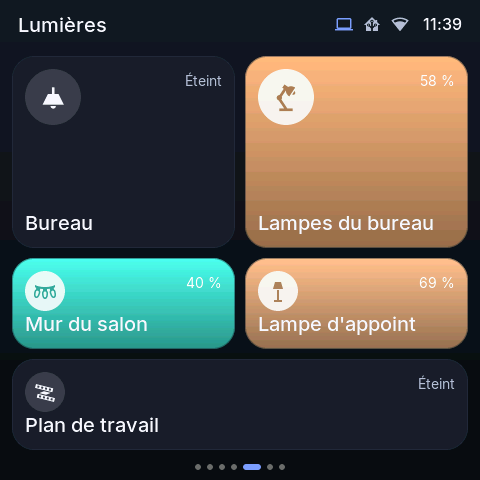
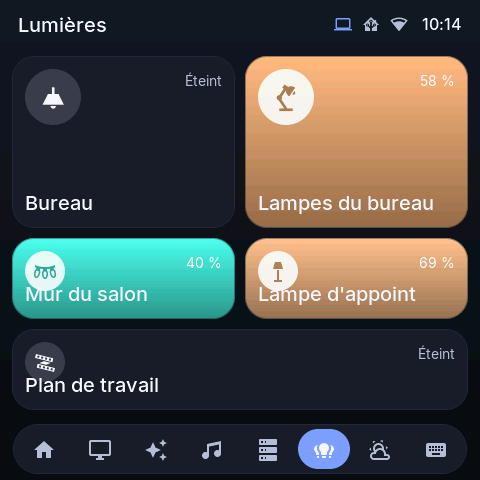
docs: page dock, wake-up trace and new screenshots

diff --git a/CLAUDE.md b/CLAUDE.md
@@ -71,6 +71,7 @@ Anything that is not hardware or transport goes in `core/`: HA protocol logic, w
 
 - `Layout::parse` validates the JSON (4×4 grid, no overlap, required props) and returns French error messages.
 - `App` builds one `lv_tileview` tile per page, with a grid layout, and asks `find_widget_factory(type)` (`core/src/widgets/registry.cpp`) for each widget.
+- Pages are reached by swiping or through the page dock (`App::add_dock_button`): a floating pill in the `FOOTER_H` band, one button per page with the page's `icon` (else the first letter of its title). It stays a child of the screen, so popups (top layer) cover it.
 - A type without a factory (layout from a newer editor) renders a "Non pris en charge" placeholder.
 - Rebuild order matters: `close_sheet()`, then `bus.clear_subscriptions()`, then `widgets_.clear()`, then delete the LVGL objects.
 
@@ -138,6 +139,7 @@ Anything that is not hardware or transport goes in `core/`: HA protocol logic, w
 - **`lv_tileview_get_tile_active()` is NULL** until a tile is set explicitly. `build_pages()` sets tile 0.
 - **Labels** that must stay on one line use `theme::single_line()`, because `LV_LABEL_LONG_DOT` alone wraps when the height is `LV_SIZE_CONTENT`.
 - **C++ and IDF macros.** Several IDF/component config macros use designated initializers in an order that fails in C++ (e.g. `ESP_LCD_TOUCH_IO_I2C_GT911_CONFIG`). Fill the structs field by field.
+- **Reboot when waking up** (wall charger, after a long sleep). `/api/status` reported `power_on`, a real power loss, not a crash. The wake-up now fades the backlight in over 800 ms after the redraw, and a trace kept in NVS (`dm_display/state`, written only on sleep/wake transitions) shows in `last_display_state`. Cause not confirmed yet.
 - **Backlight (GPIO38).** It floats after reset and lights the uninitialized panel (white flash). `bootloader_components/backlight_off` drives it low in the bootloader, and `display_show()` turns it on only after the first frame is drawn (wake from sleep redraws first too). After adding a bootloader component, delete `build/bootloader` once: the bootloader subproject does not rescan.
 - **Touch filter (`filter_touch`).** Never change `point_num` in the GT911 `process_coordinates` callback: a count of 0 makes `esp_lcd_touch_get_data` fail and esp_lvgl_port aborts. The wake-up touch is ignored with `lv_indev_wait_release()` instead. `touch_read` (`main/display.cpp`) replaces esp_lvgl_port's read callback, which aborted on any GT911 I2C error (`ESP_ERROR_CHECK`): errors only drop the sample now.
 - **TJpgDec pixel order.** LVGL's copy outputs 24-bit pixels as B, G, R (`cover.cpp`).

diff --git a/protocol/README.md b/protocol/README.md
@@ -9,7 +9,7 @@ Contracts shared by the firmware (`firmware/`), the web editor (`web/`) and the 
 
 ## Layout
 
-A layout is a list of pages (1 to 12). Each page is a **4×4 grid**. Every widget sets its top-left cell (`x`, `y`, 0 to 3) and its span (`w`, `h`, 1 to 4).
+A layout is a list of pages (1 to 12). A page has an `id`, a `title` (shown in the header) and an optional `icon` (an MDI name of `icons.json`, shown in the page dock at the bottom of the screen; without it the dock shows the first letter of the title). Each page is a **4×4 grid**. Every widget sets its top-left cell (`x`, `y`, 0 to 3) and its span (`w`, `h`, 1 to 4).
 Widgets cannot overlap or leave the grid. The firmware validates every layout again (`firmware/core/src/layout.cpp`). When a layout is rejected, the previous one stays on screen and the API returns the reason in French.
 
 | Type | Main props | Data source |
@@ -90,7 +90,7 @@ When a PIN is set, every write (`PUT`, `POST`) needs the `X-DM-Pin` header.
 | `PUT` | `/api/layout` | new layout. It is validated, saved, and the screen rebuilds without rebooting (`400` when invalid) |
 | `GET` | `/api/settings` | settings. Secrets are replaced by `has_password`, `has_token` and `has_pin` |
 | `PUT` | `/api/settings` | partial settings. An empty secret keeps the stored one. `security.clear_pin: true` removes the PIN |
-| `GET` | `/api/status` | `version`, `platform`, `ip`, `rssi`, `uptime`, `heap_internal`, `heap_psram`, `reset_reason` (device only: `power_on`, `panic`, `brownout`, `task_wdt`…) |
+| `GET` | `/api/status` | `version`, `platform`, `ip`, `rssi`, `uptime`, `heap_internal`, `heap_psram`, `reset_reason` (device only: `power_on`, `panic`, `brownout`, `task_wdt`…), `last_display_state` (device only: the display state when the chip last stopped, `awake`, `asleep`, `waking` or `unknown`; `power_on` with `waking` means the supply collapsed during a wake-up) |
 | `GET` | `/api/printer` | the `printer` bus value (see "3D printer"), `{"state": "off"}` without a printer |
 | `GET` | `/api/ha/entities` | `[{"id", "name"}]` from the HA entity registry (`503` when HA is not connected) |
 | `POST` | `/api/ha/template` | `{"template"}` → `{"result"}`, or `422 {"error"}` with Home Assistant's message (`503` when HA is not connected) |

diff --git a/README.fr.md b/README.fr.md
@@ -4,7 +4,7 @@
 
 Écran tactile de bureau 480×480 (Guition ESP32-S3-4848S040) qui sert d'**extension de l'ordinateur**. Il fonctionne seul en Wi-Fi : Home Assistant, météo, horloge, et ton imprimante 3D. Une application compagnon sur l'ordinateur s'y connecte par le réseau local : elle envoie les métriques du PC, la musique en cours de lecture et un tableau de bord Claude Code (sessions, sous-agents, tokens, limites du forfait ; l'écran se réveille pour autoriser un outil), et exécute les raccourcis façon Stream Deck.
 
-Les pages se configurent **à la volée** depuis un éditeur web servi par l'écran lui-même (`http://desk-monitor.local`), sans recompiler ni reflasher.
+Les pages se configurent **à la volée** depuis un éditeur web servi par l'écran lui-même (`http://desk-monitor.local`), sans recompiler ni reflasher. Un dock en bas de l'écran mène directement à n'importe quelle page (chaque page choisit son icône dans l'éditeur) ; le glissement marche toujours.
 
 | | | |
 | --- | --- | --- |

diff --git a/README.md b/README.md
@@ -4,7 +4,7 @@
 
 A 480×480 desk touch screen (Guition ESP32-S3-4848S040) that acts as an **extension of your computer**. It works on its own over Wi-Fi: Home Assistant, weather, clock, and your 3D printer. A companion app on the computer connects to it over the local network: it sends PC metrics, the music currently playing and a Claude Code dashboard (sessions, subagents, tokens, plan limits; the screen wakes up to approve a tool call), and runs Stream Deck-style shortcuts.
 
-Pages are configured **on the fly** from a web editor served by the screen itself (`http://desk-monitor.local`), with no rebuild and no reflash.
+Pages are configured **on the fly** from a web editor served by the screen itself (`http://desk-monitor.local`), with no rebuild and no reflash. A dock at the bottom of the screen jumps straight to any page (each page picks its icon in the editor); swiping still works.
 
 > The on-screen UI and the web editor are in French.
 
